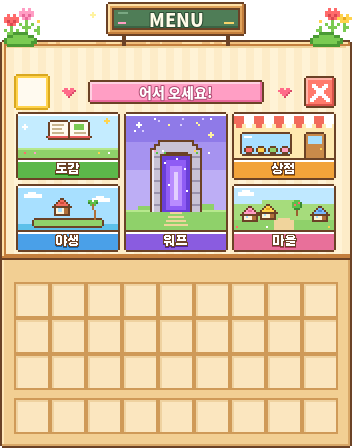
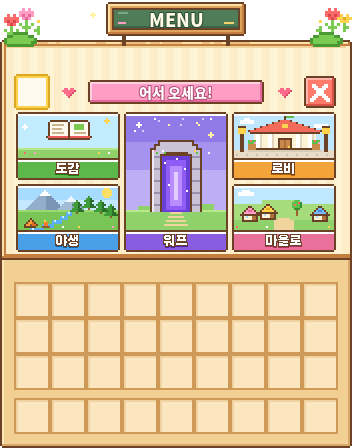
xyz

Changed region(s): [[0.6562, 0.25, 0.9688, 0.4062], [0.0312, 0.4062, 0.3438, 0.5312], [0.75, 0.5, 0.875, 0.5625]]

diff --git a/tools/make_art.py b/tools/make_art.py
@@ -378,9 +378,9 @@ def draw_shop(theme):
 #  메뉴 (5줄 상자) — 모든 그림은 자기 칸(18x18 격자) 안에만 그려요
 #    칸 c열 r줄의 영역: x 7+18c ~ 25+18c, y 17+18r ~ 35+18r
 #    0번 줄: 0열 내 머리, 1·7열 하트, 2~6열 "어서 오세요!", 8열 닫기
-#    1~2줄: 0~2열 도감,   6~8열 상점
+#    1~2줄: 0~2열 도감,   6~8열 로비
 #    1~4줄: 3~5열 워프 (가운데 큰 버튼)
-#    3~4줄: 0~2열 집으로, 6~8열 마을로
+#    3~4줄: 0~2열 야생,   6~8열 마을로
 #    ⚠ menu.yml 의 slots 와 같아야 해요
 # ======================================================================
 def cell(c0, c1, r0, r1):
@@ -424,6 +424,97 @@ def tile_shop(cv, x0, y0, x1, y1):
     cv.box(x1 - 15, y0 + 9, x1 - 4, y1 + 1, c("#c98a4a"))     # 문
     cv.rect(x1 - 13, y0 + 11, x1 - 6, y0 + 15, c("#a8e0ff"))
     cv.px(x1 - 7, y0 + 17, c("#ffd34d"))
+
+
+def tile_lobby(cv, x0, y0, x1, y1):
+    """로비: 빨간 박공지붕 회관(흰 기둥·큰 문·깃발)과 돌 광장, 양옆 가로등·화분"""
+    W, H = x1 - x0, y1 - y0
+    cv.rect(x0, y0, x1, y1, c("#bfe6ff"))                     # 하늘
+    cv.rect(x0 + 3, y0 + 3, x0 + 10, y0 + 5, WHITE)           # 구름
+    cv.rect(x0 + 5, y0 + 2, x0 + 8, y0 + 3, WHITE)
+    cv.rect(x1 - 10, y0 + 5, x1 - 3, y0 + 7, WHITE)
+    cv.rect(x0, y1 - 4, x1, y1, c("#e8dcc8"))                 # 돌 광장
+    for x in range(x0 + 1, x1, 5):
+        cv.px(x, y1 - 2, c("#cfc0a6"))
+    mx = (x0 + x1) // 2
+    bx0, bx1 = mx - 15, mx + 15
+    roof_top, wall_top, wall_bot = y0 + 3, y0 + 9, y1 - 5
+    # 깃발 (지붕 꼭대기, 칸 안쪽)
+    cv.rect(mx, y0 + 0, mx + 1, roof_top + 1, LINE)
+    cv.rect(mx + 1, y0 + 0, mx + 5, y0 + 2, c("#5cb84a"))
+    # 박공 지붕 (외곽선 + 빨강, 아래로 갈수록 넓게)
+    for i in range(wall_top - roof_top):
+        hw = 3 + i * 3
+        cv.rect(mx - hw, roof_top + i, mx + hw + 1, roof_top + i + 1, c("#f26b5b"))
+        cv.px(mx - hw, roof_top + i, LINE)
+        cv.px(mx + hw, roof_top + i, LINE)
+    cv.rect(mx - 1, roof_top + 2, mx + 2, roof_top + 4, c("#ffd34d"))   # 지붕 창 (동그라미 대신 노란 창)
+    cv.rect(bx0 - 2, wall_top, bx1 + 3, wall_top + 1, LINE)            # 처마
+    # 벽 + 기둥
+    cv.rect(bx0, wall_top + 1, bx1 + 1, wall_bot, c("#fff3d6"))
+    for cx in (bx0 + 1, bx0 + 7, bx1 - 9, bx1 - 3):
+        cv.rect(cx, wall_top + 1, cx + 3, wall_bot, WHITE)
+        cv.rect(cx + 2, wall_top + 1, cx + 3, wall_bot, c("#e2d6c0"))
+    # 큰 문 (아치 느낌)
+    cv.rect(mx - 3, wall_top + 3, mx + 4, wall_bot, LINE)
+    cv.rect(mx - 2, wall_top + 4, mx + 3, wall_bot, c("#c98a4a"))
+    cv.rect(mx, wall_top + 4, mx + 1, wall_bot, c("#a8703c"))
+    cv.px(mx + 2, wall_top + 7, c("#ffd34d"))
+    cv.rect(bx0 - 1, wall_bot, bx1 + 2, wall_bot + 1, LINE)           # 계단
+    cv.rect(bx0 - 3, wall_bot + 1, bx1 + 4, wall_bot + 2, c("#d8ccb4"))
+    # 양옆 가로등
+    for lx in (x0 + 3, x1 - 5):
+        cv.rect(lx, y0 + 9, lx + 2, y1 - 3, LINE)
+        cv.rect(lx - 1, y0 + 7, lx + 3, y0 + 10, c("#ffd34d"))
+        cv.rect(lx - 1, y0 + 6, lx + 3, y0 + 7, LINE)
+    # 화분
+    for fx in (x0 + 7, x1 - 11):
+        cv.rect(fx, y1 - 7, fx + 4, y1 - 4, c("#c98a4a"))
+        cv.rect(fx, y1 - 9, fx + 4, y1 - 7, c("#5cc04a"))
+        cv.px(fx + 1, y1 - 9, c("#ff6b6b"))
+        cv.px(fx + 3, y1 - 8, c("#ff9ec4"))
+
+
+def tile_wild(cv, x0, y0, x1, y1):
+    """야생: 해, 눈 덮인 산 두 개, 침엽수 숲, 굽이치는 강, 텐트와 모닥불"""
+    cv.rect(x0, y0, x1, y1, c("#a8dcff"))                     # 하늘
+    cv.rect(x0, y0 + 7, x1, y1, c("#c4e8ff"))
+    sun = [".yyy.", "yyyyy", "yyyyy", "yyyyy", ".yyy."]
+    cv.sprite(x1 - 8, y0 + 1, sun, {"y": c("#ffe066")})
+
+    def mountain(cx, top, base, col, shade, snow):
+        for i in range(base - top):
+            cv.rect(cx - i, top + i, cx + i + 1, top + i + 1, col)
+            cv.rect(cx + 1, top + i, cx + i + 1, top + i + 1, shade)   # 오른쪽 그늘
+        for i in range(3):
+            cv.rect(cx - i, top + i, cx + i + 1, top + i + 1, snow)
+    mountain(x0 + 13, y0 + 2, y0 + 13, c("#93aecb"), c("#7a96b6"), WHITE)
+    mountain(x0 + 26, y0 + 5, y0 + 13, c("#a3bcd6"), c("#8aa6c4"), c("#eef6ff"))
+    # 들판
+    cv.rect(x0, y0 + 12, x1, y1, c("#79c656"))
+    cv.rect(x0, y0 + 12, x1, y0 + 13, c("#9ad870"))
+    # 침엽수 숲 (오른쪽)
+    pine = {"g": c("#3f9a3a"), "G": c("#2a6e2a"), "t": c("#8a5a30")}
+    rows = ["...g...", "..ggG..", ".gggGG.", "..ggG..", ".gggGG.", "ggggGGG", "...t..."]
+    for (tx, ty) in [(x1 - 24, y0 + 7), (x1 - 18, y0 + 5), (x1 - 12, y0 + 7), (x1 - 7, y0 + 9)]:
+        cv.sprite(tx, ty, rows, pine)
+    # 강: 숲 사이에서 왼쪽 아래로
+    river = [(x1 - 26, 3), (x1 - 29, 4), (x1 - 33, 5), (x1 - 38, 6), (x1 - 44, 7), (x1 - 51, 8)]
+    for i, (rx, rw) in enumerate(river):
+        yy = y0 + 13 + i * 2
+        if yy >= y1:
+            break
+        cv.rect(max(x0, rx), yy, min(x1, rx + rw), min(y1, yy + 2), c("#5cb0f0"))
+        cv.px(max(x0, rx + 1), yy, c("#d0f0ff"))
+    # 텐트 + 모닥불 (왼쪽)
+    tent = ["...o...", "..oro..", ".orrRo.", "orrdRRo", "oooooo."]
+    cv.sprite(x0 + 3, y1 - 6, tent, {"o": LINE, "r": c("#ff9a3a"), "R": c("#e07020"), "d": c("#8a5a30")})
+    fx = x0 + 12
+    cv.rect(fx, y1 - 2, fx + 4, y1 - 1, c("#8a5a30"))
+    cv.rect(fx + 1, y1 - 4, fx + 3, y1 - 2, c("#ff7a2a"))
+    cv.px(fx + 1, y1 - 5, c("#ffd34d"))
+    for (px_, pc) in [(x0 + 22, "#ffffff"), (x1 - 3, "#ff9ec4"), (x0 + 30, "#ffd34d")]:
+        cv.px(px_, y1 - 2, c(pc))
 
 
 def tile_home(cv, x0, y0, x1, y1):
@@ -527,9 +618,9 @@ def tile_warp(cv, x0, y0, x1, y1):
 
 MENU_TILES = [  # (열 범위, 줄 범위, 그리기, 이름표, 이름표 색)
     ((0, 2), (1, 2), tile_dogam, "도감", "#5cb84a"),
-    ((6, 8), (1, 2), tile_shop, "상점", "#f2a33a"),
+    ((6, 8), (1, 2), tile_lobby, "로비", "#f2a33a"),
     ((3, 5), (1, 4), tile_warp, "워프", "#8a5ce0"),
-    ((0, 2), (3, 4), tile_home, "야생", "#4aa0e8"),
+    ((0, 2), (3, 4), tile_wild, "야생", "#4aa0e8"),
     ((6, 8), (3, 4), tile_village, "마을로", "#e8709a"),
 ]
 

diff --git a/CHANGELOG.md b/CHANGELOG.md
@@ -8,6 +8,13 @@
 버전은 `build.gradle.kts` 의 `version` 한 곳만 바꾸면 jar 이름과 plugin.yml 에 같이 들어가요.
 서버에서는 `/version ServerCore` 로 지금 돌고 있는 버전을 확인할 수 있어요.
 
+## 3.10.0 — 2026-10-26
+새 기능
+- 메뉴 "상점" 버튼 → **로비**: 로비로 이동 (지점 `lobby`, 로비에서 `/servercore setpoint lobby`), 그림도 회관·광장으로
+- 메뉴 "야생" 버튼 그림을 야생 풍경(설산·침엽수 숲·강·텐트와 모닥불)으로, 이동은 지점 `home` (도착 문구 "야생")
+- 서버 구성에 맞춘 기본값: 도약 `[village, lobby]`, 집 땅 `[village]`, 이동 카운트다운 2초
+- 리소스팩: 메뉴 배경 → **리소스팩 다시 올리기 필요**
+
 ## 3.9.5 — 2026-10-26
 바뀜
 - 도약(달리면서 점프)은 기본으로 마을 월드에서만 (`config.yml` → `long-jump.worlds: [village]`), 안내서 문구도 맞춤
